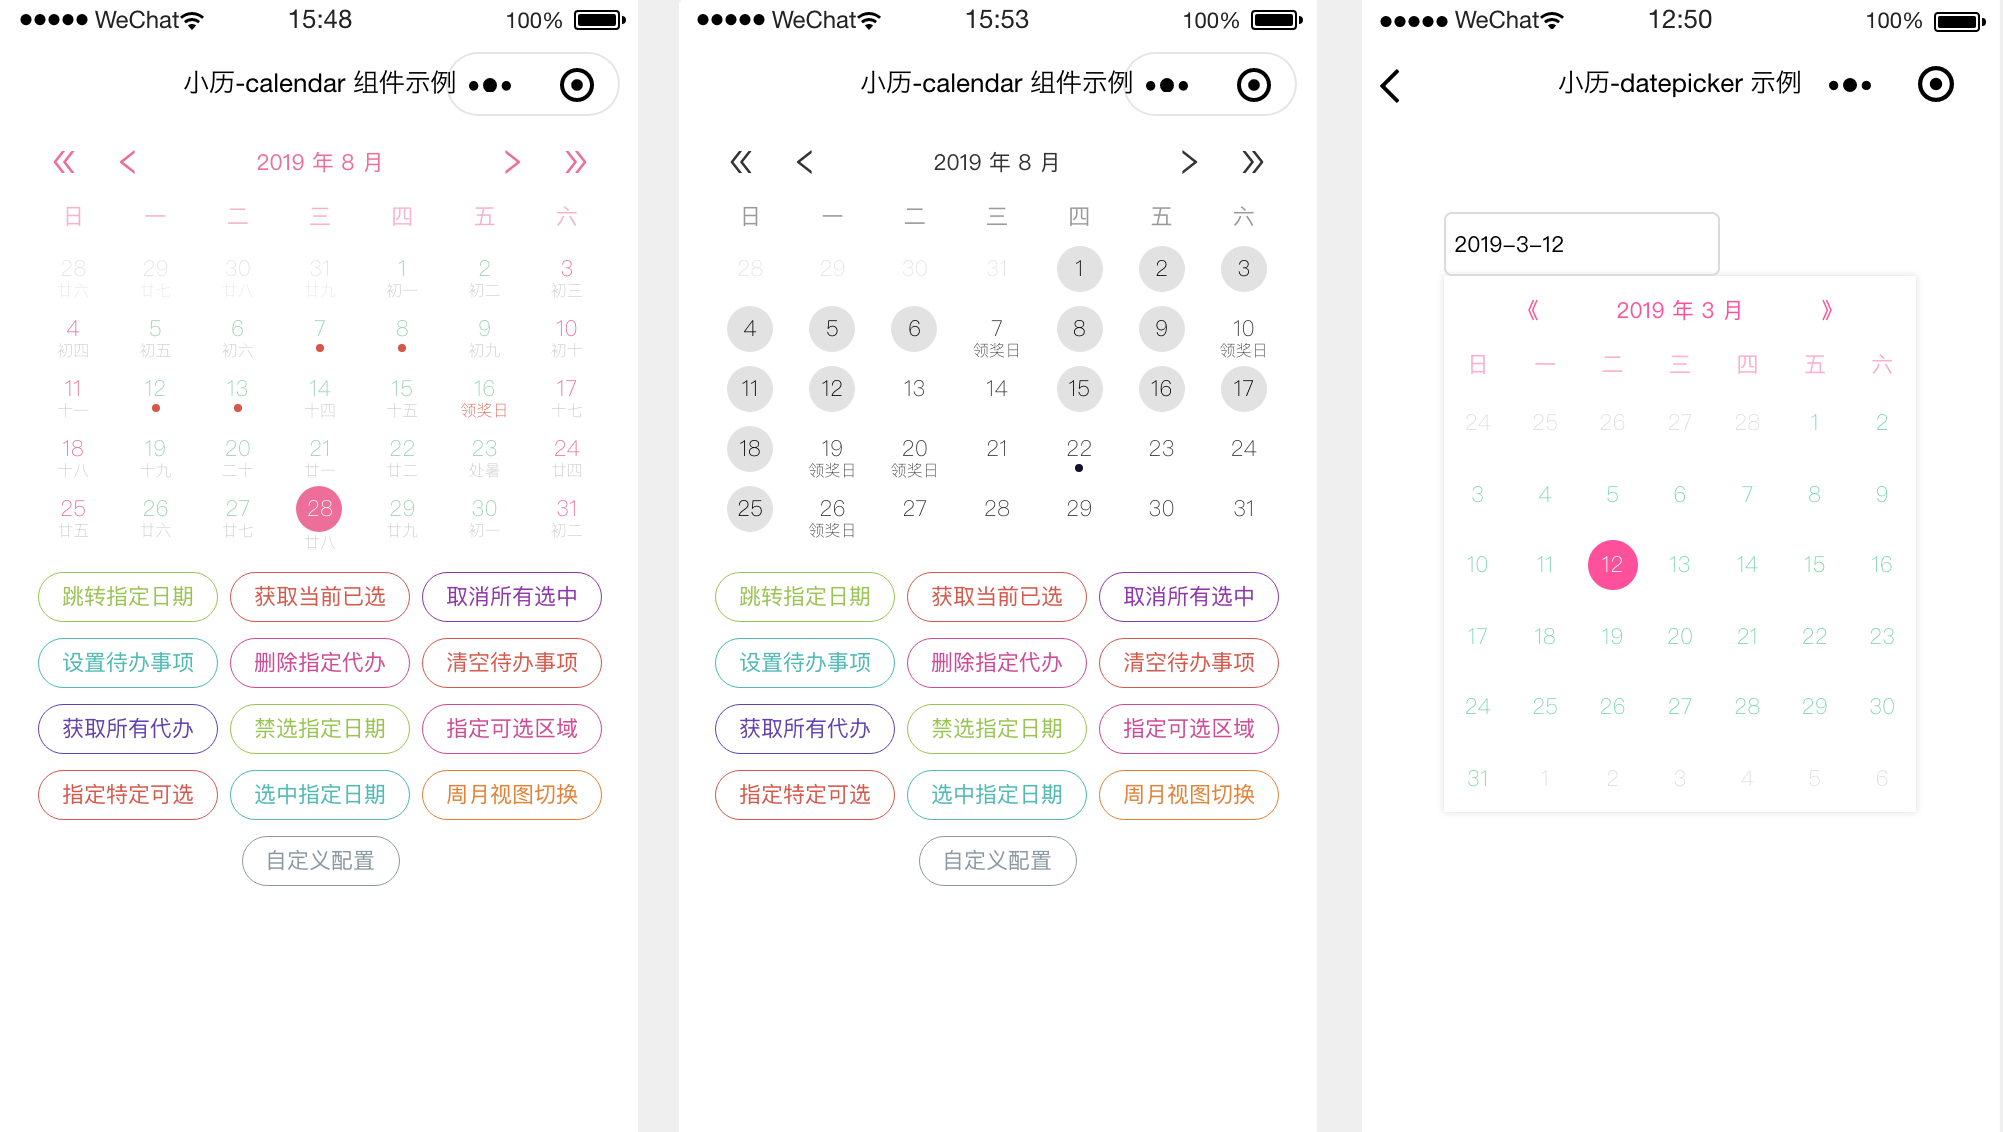
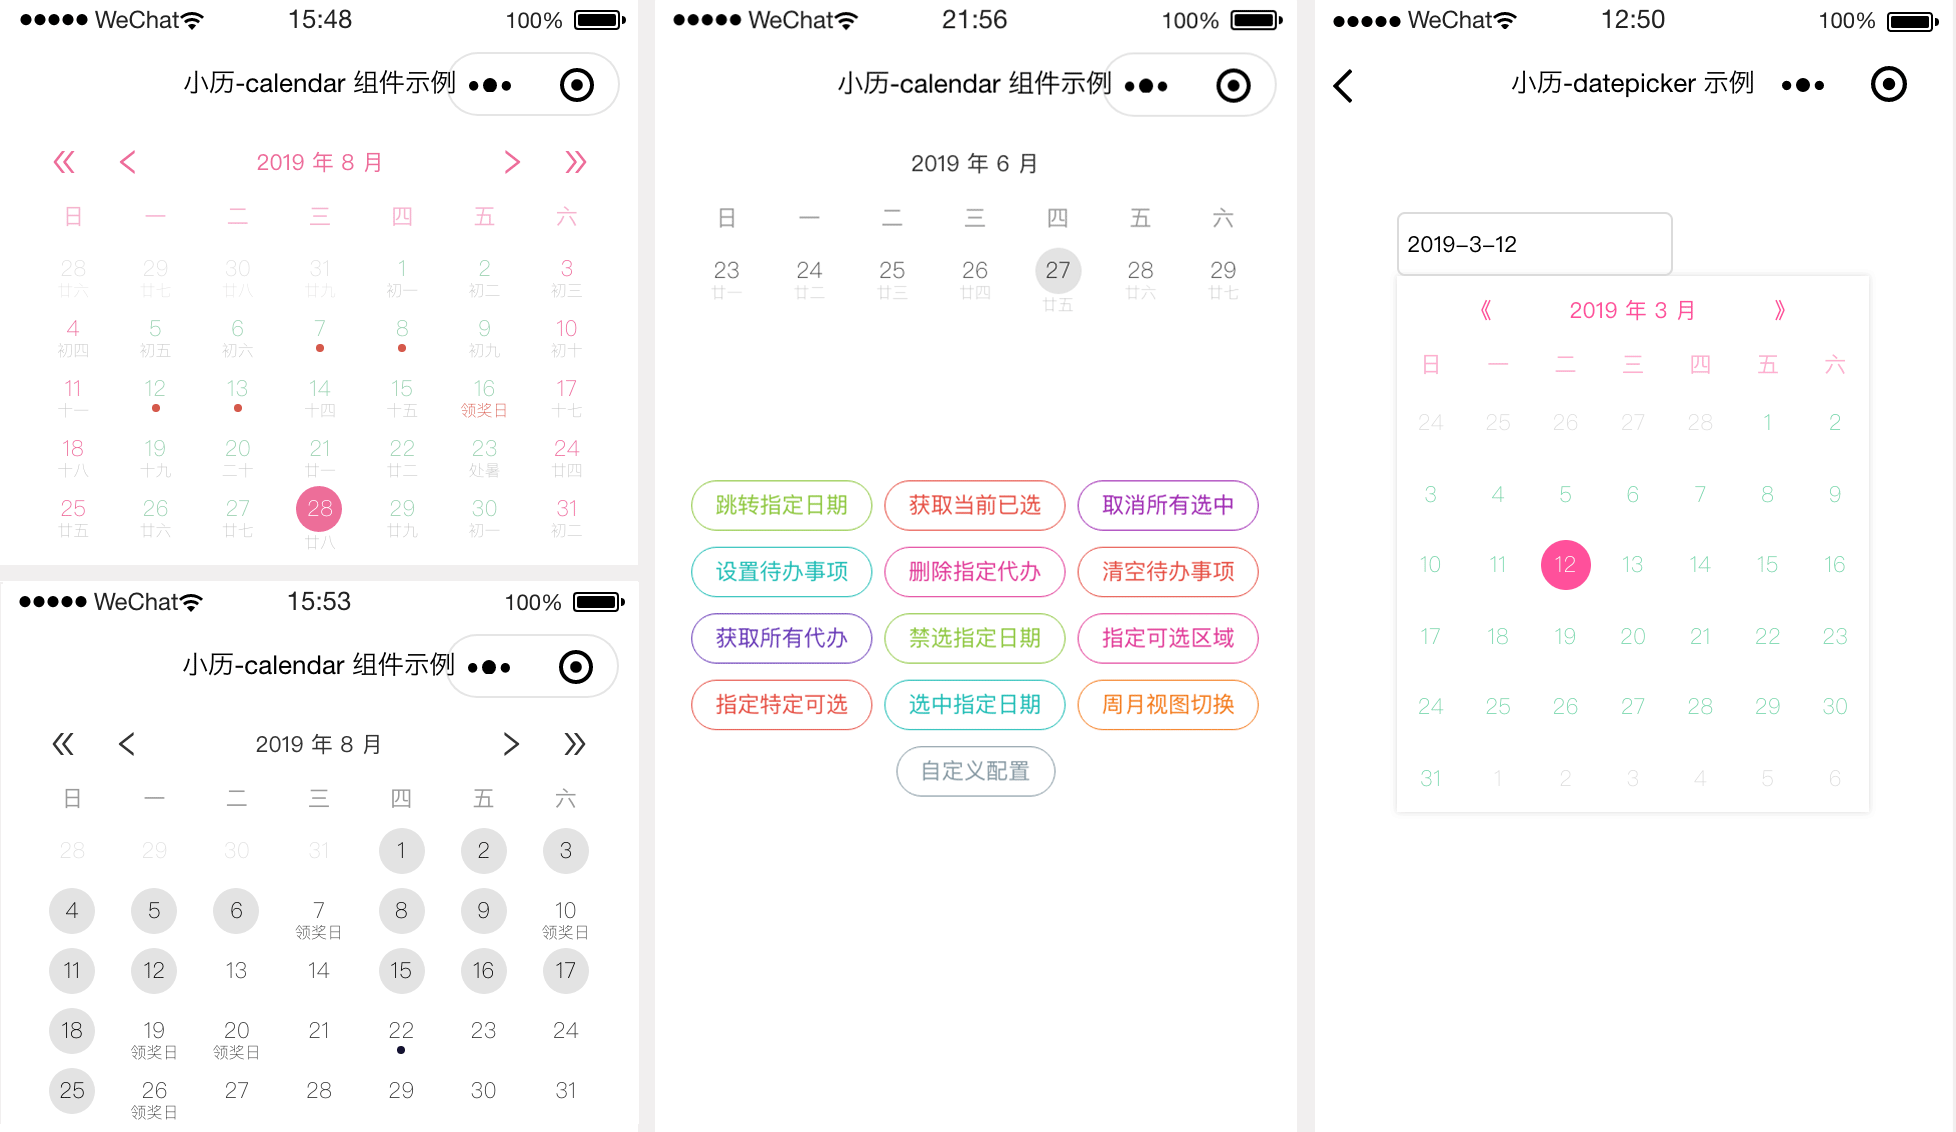
fix: not correct  when week mode #171

diff --git a/src/component/calendar/func/week.js b/src/component/calendar/func/week.js
@@ -103,9 +103,11 @@ class WeekMode extends WxData {
    * 当月第一周所有日期范围
    * @param {number} year
    * @param {number} month
+   * @param {boolean} firstDayOfWeekIsMon 每周是否配置为以周一开始
    */
   firstWeekInMonth(year, month, firstDayOfWeekIsMon) {
-    const firstDay = getDate.dayOfWeek(year, month, 1);
+    let firstDay = getDate.dayOfWeek(year, month, 1);
+    if (+firstDay === 0) firstDay = 7;
     const firstWeekDays = [0, 7 - firstDay];
     const days = this.getData('calendar.days') || [];
     const daysCut = days.slice(
@@ -118,13 +120,17 @@ class WeekMode extends WxData {
    * 当月最后一周所有日期范围
    * @param {number} year
    * @param {number} month
+   * @param {boolean} firstDayOfWeekIsMon 每周是否配置为以周一开始
    */
-  lastWeekInMonth(year, month) {
+  lastWeekInMonth(year, month, firstDayOfWeekIsMon) {
     const lastDay = getDate.thisMonthDays(year, month);
     const lastDayWeek = getDate.dayOfWeek(year, month, lastDay);
     const lastWeekDays = [lastDay - lastDayWeek, lastDay];
     const days = this.getData('calendar.days') || [];
-    const daysCut = days.slice(lastWeekDays[0] - 1, lastWeekDays[1]);
+    const daysCut = days.slice(
+      firstDayOfWeekIsMon ? lastWeekDays[0] : lastWeekDays[0] - 1,
+      lastWeekDays[1]
+    );
     return daysCut;
   }
   /**
@@ -327,9 +333,9 @@ class WeekMode extends WxData {
     return new Promise(resolve => {
       let { days, curYear, curMonth } = this.getData('calendar');
       let { year, month, day } = currentDay;
-      let lastWeekDays = this.lastWeekInMonth(year, month);
       const config = this.getCalendarConfig();
       const firstDayOfWeekIsMon = config.firstDayOfWeek === 'Mon';
+      let lastWeekDays = this.lastWeekInMonth(year, month, firstDayOfWeekIsMon);
       const firstWeekDays = this.firstWeekInMonth(
         year,
         month,
